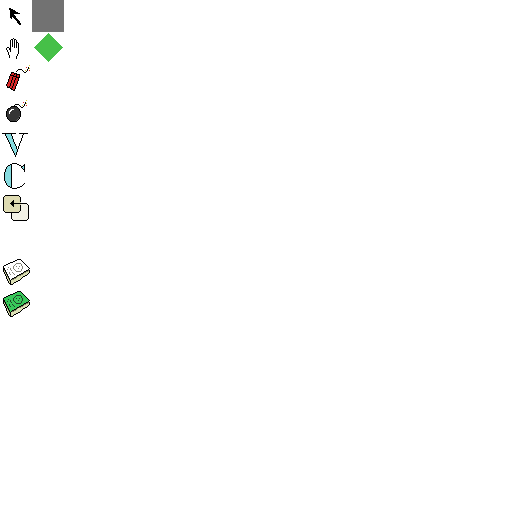
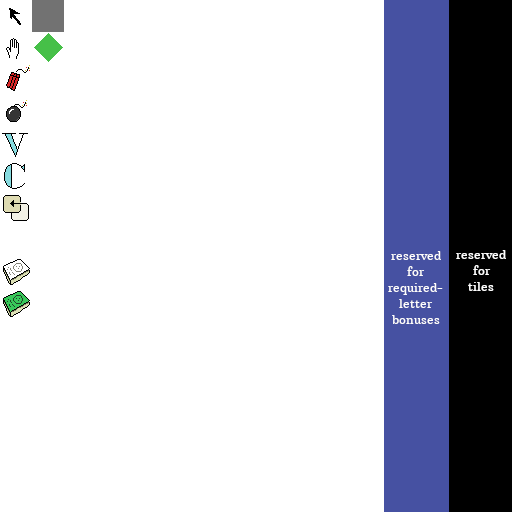
WebGL rendering of required letter bonuses

Changed region(s): [[0.75, 0.0, 1.0, 1.0]]

diff --git a/src/ui/drawBonus.ts b/src/ui/drawBonus.ts
@@ -1,13 +1,14 @@
 import { getAssets } from '../core/assets';
-import { Bonus, posOfBonus, rectOfBonus, spriteRectOfPos } from '../core/bonus';
+import { Bonus, rectOfBonus } from '../core/bonus';
 import { rectOfTool } from '../core/tools';
 import { drawImage, fillRect } from '../util/dutil';
 import { SE2 } from '../util/se2';
 import { apply_to_rect } from "../util/se2-extra";
-import { Point } from "../util/types";
+import { Point, Rect } from "../util/types";
 import { midpointOfRect } from "../util/util";
 import { vadd } from '../util/vutil';
 import { drawTileLetter } from './render';
+import { spriteLocOfBonus, spriteRectOfPos } from './sprite-sheet';
 
 export function drawBonusPoint(d: CanvasRenderingContext2D, pan_canvas_from_world: SE2, p: Point, fraction: number = 1) {
   const rect_in_canvas = apply_to_rect(pan_canvas_from_world, { p, sz: { x: 1, y: 1 } });
@@ -30,13 +31,17 @@ export function drawBonusBomb(d: CanvasRenderingContext2D, pan_canvas_from_world
   drawImage(d, spriteSheet, rectOfTool('bomb'), rect_in_canvas);
 }
 
-export function drawBonus(d: CanvasRenderingContext2D, bonus: Bonus, pan_canvas_from_world: SE2, p: Point, fraction: number = 1, active: boolean = false) {
+export function drawRequiredLetterBonus(d: CanvasRenderingContext2D, letter: string, rect_in_canvas: Rect) {
+  drawTileLetter(d, letter, rect_in_canvas, '#aaa');
+}
+
+export function drawBonus(d: CanvasRenderingContext2D, bonus: Bonus, canvas_from_world: SE2, p_in_world: Point, fraction: number = 1, active: boolean = false) {
   const spriteSheet = getAssets().spriteSheetBuf.c;
-  const rect_in_canvas = apply_to_rect(pan_canvas_from_world, { p, sz: { x: 1, y: 1 } });
+  const rect_in_canvas = apply_to_rect(canvas_from_world, { p: p_in_world, sz: { x: 1, y: 1 } });
 
   switch (bonus.t) {
     case 'bonus':
-      drawBonusPoint(d, pan_canvas_from_world, p);
+      drawBonusPoint(d, canvas_from_world, p_in_world);
       return;
     case 'empty':
       return;
@@ -45,11 +50,11 @@ export function drawBonus(d: CanvasRenderingContext2D, bonus: Bonus, pan_canvas_
       return;
     }
     case 'required': {
-      const rect_in_canvas = apply_to_rect(pan_canvas_from_world, { p, sz: { x: 1, y: 1 } });
-      drawTileLetter(d, bonus.letter, rect_in_canvas, '#aaa');
+      const rect_in_canvas = apply_to_rect(canvas_from_world, { p: p_in_world, sz: { x: 1, y: 1 } });
+      drawRequiredLetterBonus(d, bonus.letter, rect_in_canvas);
     } return;
     case 'word': {
-      drawImage(d, spriteSheet, spriteRectOfPos(vadd(posOfBonus(bonus), { x: 0, y: active ? 1 : 0 })), rect_in_canvas);
+      drawImage(d, spriteSheet, spriteRectOfPos(vadd(spriteLocOfBonus(bonus), { x: 0, y: active ? 1 : 0 })), rect_in_canvas);
       return;
     }
     default: {

diff --git a/src/core/bonus.ts b/src/core/bonus.ts
@@ -1,16 +1,16 @@
-import { Draft } from 'immer';
+import { spriteLocOfBonus, spriteRectOfPos } from '../ui/sprite-sheet';
 import { DEBUG } from '../util/debug';
+import { produce } from '../util/produce';
 import { Point, Rect } from '../util/types';
-import { lerp, point_hash, unreachable } from '../util/util';
-import { vadd, vdiag, vdiv, vequal, vint, vm, vscale, vsnorm, vsub } from '../util/vutil';
+import { lerp, point_hash } from '../util/util';
+import { vadd, vdiv, vint, vm, vsnorm, vsub } from '../util/vutil';
 import { deterministicLetterSample } from './distribution';
 import { Layer, mkLayer } from './layer';
 import { incrementScore } from './scoring';
 import { CoreState } from './state';
 import { MoveTile, Scoring } from './state-helpers';
-import { TOOL_IMAGE_WIDTH, indexOfTool } from './tools';
+import { indexOfTool } from './tools';
 import { mkActiveWordBonus } from './word-bonus';
-import { produce } from '../util/produce';
 
 export type ScoringBonus =
   | { t: 'bonus' }
@@ -155,25 +155,6 @@ export function getBonusLayer(seed: number = DETERMINISTIC_SEED): Layer<Bonus> {
   return _cachedBonusLayer[name];
 }
 
-export function posOfBonus(bonus: Bonus): Point {
-  switch (bonus.t) {
-    case 'bonus': return { x: 1, y: 1 };
-    case 'bomb': return { x: 0, y: indexOfTool('bomb') };
-    case 'required': return { x: 0, y: 0 }; // XXX should prerender alphabet into texture
-    case 'consonant': return { x: 0, y: indexOfTool('consonant') };
-    case 'vowel': return { x: 0, y: indexOfTool('vowel') };
-    case 'copy': return { x: 0, y: indexOfTool('copy') };
-    case 'empty': return { x: 0, y: 7 };
-    case 'block': return { x: 1, y: 0 };
-    case 'word': return { x: 0, y: 8 };
-  }
-}
-
 export function rectOfBonus(bonus: Bonus): Rect {
-  return spriteRectOfPos(posOfBonus(bonus));
-}
-
-export function spriteRectOfPos(pos: Point): Rect {
-  const S_in_image = TOOL_IMAGE_WIDTH;
-  return { p: vscale(pos, S_in_image), sz: vdiag(S_in_image) };
+  return spriteRectOfPos(spriteLocOfBonus(bonus));
 }

diff --git a/src/ui/sprite-sheet.ts b/src/ui/sprite-sheet.ts
@@ -1,7 +1,43 @@
-import { imgProm, Buffer, buffer } from "../util/dutil";
+import { Bonus } from "../core/bonus";
+import { TOOL_IMAGE_WIDTH, indexOfTool } from "../core/tools";
+import { Buffer, buffer, fillRect } from "../util/dutil";
+import { scale } from "../util/se2";
+import { apply_to_rect } from "../util/se2-extra";
+import { Point, Rect } from "../util/types";
+import { vdiag, vscale } from "../util/vutil";
+import { drawRequiredLetterBonus } from "./drawBonus";
+
+export function spriteRectOfPos(pos: Point): Rect {
+  const S_in_image = TOOL_IMAGE_WIDTH;
+  return { p: vscale(pos, S_in_image), sz: vdiag(S_in_image) };
+}
+
+export function spriteLocOfBonus(bonus: Bonus): Point {
+  switch (bonus.t) {
+    case 'bonus': return { x: 1, y: 1 };
+    case 'bomb': return { x: 0, y: indexOfTool('bomb') };
+    case 'required': return spriteLocOfRequiredBonus(bonus.letter.charCodeAt(0) - 97);
+    case 'consonant': return { x: 0, y: indexOfTool('consonant') };
+    case 'vowel': return { x: 0, y: indexOfTool('vowel') };
+    case 'copy': return { x: 0, y: indexOfTool('copy') };
+    case 'empty': return { x: 0, y: 7 };
+    case 'block': return { x: 1, y: 0 };
+    case 'word': return { x: 0, y: 8 };
+  }
+}
+
+function spriteLocOfRequiredBonus(letterIndex: number): Point {
+  return { x: 12 + Math.floor(letterIndex / 16), y: letterIndex % 16 };
+}
 
 export function prerenderSpriteSheet(img: HTMLImageElement): Buffer {
   const buf = buffer({ x: img.width, y: img.height });
   buf.d.drawImage(img, 0, 0);
+
+  for (let i = 0; i < 26; i++) {
+    const rect_in_canvas = apply_to_rect(scale(vdiag(TOOL_IMAGE_WIDTH)), { p: spriteLocOfRequiredBonus(i), sz: { x: 1, y: 1 } });
+    fillRect(buf.d, rect_in_canvas, 'white');
+    drawRequiredLetterBonus(buf.d, String.fromCharCode(65 + i), rect_in_canvas);
+  }
   return buf;
 }

diff --git a/src/ui/gl-render.ts b/src/ui/gl-render.ts
@@ -1,6 +1,5 @@
 import { Dispatch } from "../core/action";
 import { getAssets } from "../core/assets";
-import { posOfBonus } from "../core/bonus";
 import { CHUNK_SIZE } from "../core/chunk";
 import { GameState } from "../core/state";
 import { bonusOfStatePoint } from "../core/state-helpers";
@@ -13,6 +12,7 @@ import { Point } from "../util/types";
 import { rectPts } from "../util/util";
 import { vadd, vdiag, vm, vscale } from "../util/vutil";
 import { canvas_from_gl, gl_from_canvas } from "./gl-helpers";
+import { spriteLocOfBonus } from "./sprite-sheet";
 import { resizeView } from "./ui-helpers";
 import { CanvasGlInfo } from "./use-canvas";
 import { pan_canvas_from_world_of_state } from "./view-helpers";
@@ -76,7 +76,7 @@ function drawChunk(gl: WebGL2RenderingContext, env: GlEnv, p_in_chunk: Point, st
     for (let j = 0; j < CHUNK_SIZE; j++) {
       const ix = 4 * (j * CHUNK_SIZE + i);
       const p_in_world = vadd({ x: i, y: j }, vscale(p_in_chunk, CHUNK_SIZE));
-      const bonusPos = posOfBonus(bonusOfStatePoint(state.coreState, p_in_world));
+      const bonusPos = spriteLocOfBonus(bonusOfStatePoint(state.coreState, p_in_world));
       chunkImdat.data[ix + 0] = bonusPos.x;
       chunkImdat.data[ix + 1] = bonusPos.y;
       chunkImdat.data[ix + 2] = 0;

diff --git a/src/core/tools.ts b/src/core/tools.ts
@@ -5,6 +5,7 @@ import { getScore } from "./scoring";
 import { CoreState } from "./state";
 import { drawOfState } from "./state-helpers";
 
+// XXX rename this, this is really sprite size
 export const TOOL_IMAGE_WIDTH = 32;
 
 const tools = [
